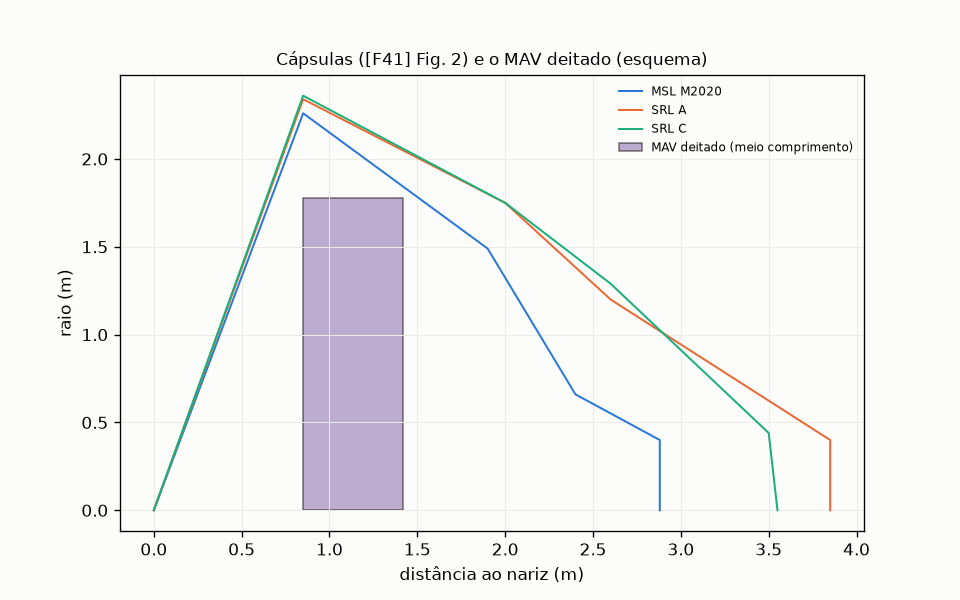
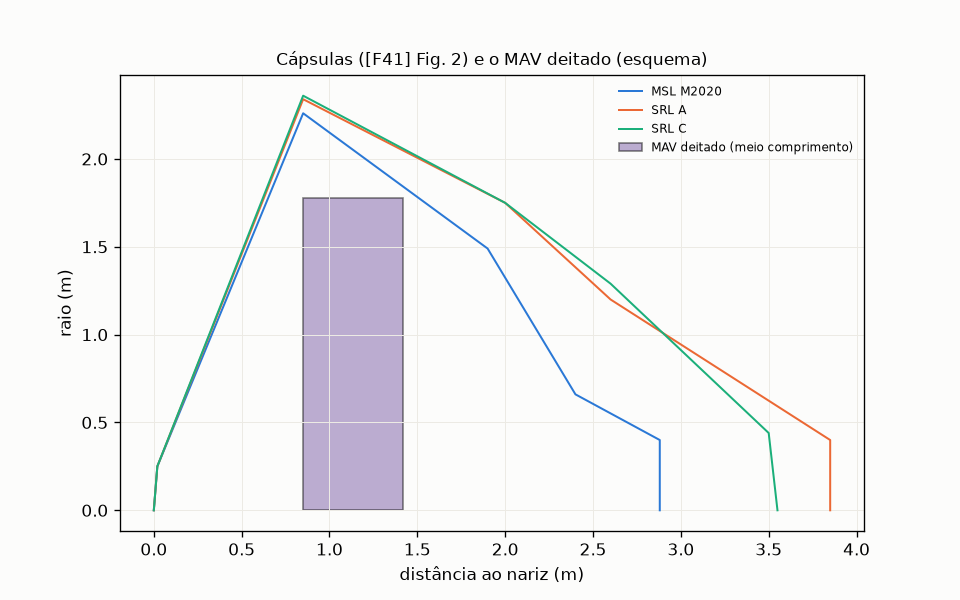
Etapa 7.2: correções da revisão (casca de PICA, sensibilidade do envelope do Vulcan, P-089)
- casca_tronco: limite da bissecção pelo maior raio (a casca de PICA tinha 1/11 do volume); teste novo.
- Vulcan: folga também sem o afunilamento linear entre as cotas (negativa com 4,65 m); a condição do ADR 0022 fica
  dependente da confirmação do envelope pela ULA, com as opções no documento.
- P-089 corrigida (a conferência usa a pior folga, SRL-C); nariz rombudo no perfil; guardas e ponta do EES no config
  (P-093, P-094); rótulo "geometria modelada".
- FeatureScript: sem vírgulas finais, cone interno estendido (sem faces coplanares), subtração sem recuperação
  silenciosa; interferências conhecidas e P-079 (fonte [F224] na justificativa, valor mantido) no documento.

Claude-Session: https://claude.ai/code/session_01JtSYAW4kQdfF2hoWnhjUAJ

Changed region(s): [[0.1562, 0.18, 0.3125, 0.84]]

diff --git a/tools/cad_parametros.py b/tools/cad_parametros.py
@@ -124,7 +124,7 @@ def casca_tronco(x0, r0, x1, r1, t):
     """Raio interno (deslocamento radial) que dá o volume de uma casca de espessura normal t no tronco (x0,r0)–(x1,r1)."""
     h = abs(x1 - x0)
     alvo = math.pi * (r0 + r1) * math.hypot(h, r1 - r0) * t   # área lateral × espessura
-    lo, hi = 0.0, min(r0, r1) if min(r0, r1) > 0 else max(r0, r1)
+    lo, hi = 0.0, max(r0, r1)   # o raio interno já é limitado a ≥ 0 abaixo
     for _ in range(80):   # bissecção no deslocamento radial
         d = (lo + hi) / 2
         vol = vol_tronco(h, r0, r1) - vol_tronco(h, max(r0 - d, 0.0), max(r1 - d, 0.0))
@@ -186,7 +186,7 @@ def main():
     h_ees = r_ees / math.tan(ang_ees)
     z_ees = z_cc + cc[2]
     orb.equivalente("EES com o contêiner de amostras", pega(comp_o, "Carga útil CU-2: EEV")["massa_kg"], "massa do orçamento (P-094)",
-                    tipo="tronco", p0=[0, 0, z_ees], p1=[0, 0, z_ees + h_ees], r0=r_ees, r1=r_ees * 0.01, ri0=0.0, ri1=0.0)
+                    tipo="tronco", p0=[0, 0, z_ees], p1=[0, 0, z_ees + h_ees], r0=r_ees, r1=r_ees * v(eqv["ees_ponta_fracao"]), ri0=0.0, ri1=0.0)
     perf_f = (env["coifas"]["falcon"]["altura_m"], env["coifas"]["falcon"]["raio_m"])
     conj_orb = [("Tanques de inserção", 0.0, eo["tanques"]["insercao_marte"]["diametro_esfera_m"], eo["conjuntos"][0]["raio_m"] + t_tq),
                 ("Tanques de retorno", eo["conjuntos"][1]["h0_m"], topo_ret, eo["conjuntos"][1]["raio_m"] + t_tq),
@@ -214,21 +214,32 @@ def main():
         Lc = perfil[0][-1]
         return min(ea.raio_envelope(perf_v, h_aft + (Lc - x)) - capsula_raio(perfil, x) for x in xs)
     fol_v = {k: {"folga_radial_m": folga_vulcan(p, h_cz), "raio_max_m": max(p[1]), "comprimento_m": p[0][-1]} for k, p in perfis.items()}
+    # sensibilidade: envelope sem o afunilamento linear entre as cotas (o diâmetro menor, da estação de cima, desde o PAF)
+    perf_v_ref = perf_v
+    perf_v = ([perf_v_ref[0][0], perf_v_ref[0][1]] + list(perf_v_ref[0][2:]), [perf_v_ref[1][1], perf_v_ref[1][1]] + list(perf_v_ref[1][2:]))
+    for k, p in perfis.items():
+        fol_v[k]["folga_sem_afunilamento_m"] = folga_vulcan(p, h_cz)
+    perf_v = perf_v_ref
 
     lan = Veiculo("lander")
     t_pica = v(capsulas["espessura_pica_m"])
     t_sla = v(capsulas["espessura_casca_traseira_m"])
+    rmin = v(cons["raio_minimo_m"])
+    i_ombro = int(np.argmax(prr))
     segs = list(zip(px[:-1], prr[:-1], px[1:], prr[1:]))
     for i, (x0, r0, x1, r1) in enumerate(segs):
         if x1 == x0:
             continue
-        frente = x0 == 0.0
+        frente = i < i_ombro
+        if i == 0:   # ponta do nariz rombudo: tronco maciço de PICA
+            lan.add("Nariz do escudo (PICA)", "pica", "geometria: perfil de [F41]", tipo="tronco",
+                    p0=[0, 0, zst(x0)], p1=[0, 0, zst(x1)], r0=max(r0, rmin), r1=r1, ri0=0.0, ri1=0.0)
+            continue
         t = t_pica if frente else t_sla
-        r0e = max(r0, 0.01)   # sem raio zero no nariz
-        d = casca_tronco(x0, r0e, x1, r1, t)
-        lan.add("Escudo térmico (PICA)" if frente else f"Casca traseira {i} (SLA-561V)", "pica" if frente else "sla_561v",
+        d = casca_tronco(x0, r0, x1, r1, t)
+        lan.add("Escudo térmico (PICA)" if frente else f"Casca traseira {i - i_ombro + 1} (SLA-561V)", "pica" if frente else "sla_561v",
                 "geometria: perfil de [F41], espessura de [F215]/[F225]", tipo="tronco_oco",
-                p0=[0, 0, zst(x0)], p1=[0, 0, zst(x1)], r0=r0e, r1=r1, ri0=max(r0e - d, 0.005), ri1=max(r1 - d, 0.005))
+                p0=[0, 0, zst(x0)], p1=[0, 0, zst(x1)], r0=r0, r1=r1, ri0=max(r0 - d, rmin), ri1=max(r1 - d, rmin))
     lan.add("Tampa traseira (SLA-561V)", "sla_561v", "geometria (P-090)", tipo="cilindro", p0=[0, 0, z_aft], p1=[0, 0, z_aft + t_sla], r=prr[-2])
     # estágio de cruzeiro: dois tanques ao lado da casca traseira e o circuito de fluido como disco equivalente
     lc = env["lander"]["cruzeiro"]
@@ -243,7 +254,7 @@ def main():
     de = env["lander"]["descida"]
     d_de = de["diametro_esfera_m"]
     r_de = v(al["raio_tanques_descida_m"])
-    x_ombro = px[1]
+    x_ombro = px[i_ombro]
     x_mav0 = v(cad["mav_no_aeroshell"]["estacao_base_referencia_m"])
     for i, a in enumerate(float(x) for x in al["angulos_tanques_descida_graus"]["valor"]):
         a = math.radians(a)
@@ -302,7 +313,7 @@ def main():
             massa += m
             mom += m * centro(c)
             chave = "densidade equivalente (massa do orçamento)" if c["material"] == "equivalente" else (
-                "propelente" if c["material"] in rho else "geometria e densidade com fonte")
+                "propelente" if c["material"] in rho else "geometria modelada")
             por_origem[chave] = por_origem.get(chave, 0.0) + m
         resumo[k] = {"massa_kg": massa, "cg_m": (mom / massa).tolist(), "por_origem_kg": por_origem, "corpos": len(ve_.corpos)}
     resumo["orcamento"] = {"orbitador_injetado_kg": arq["orbitador"]["injetado_kg"], "lander_injetado_kg": arq["lander"]["injetado_kg"],
@@ -374,6 +385,17 @@ def _vec(p):
     return "[" + ", ".join(_num(x) for x in p) + "]"
 
 
+def extensao_interna(c):
+    """Cone interno de um tronco oco estendido além das duas faces (pela espessura da parede), com os raios na mesma reta:
+    a subtração não tem faces coplanares e o volume removido dentro do tronco externo é o mesmo."""
+    p0, p1 = np.array(c["p0"], float), np.array(c["p1"], float)
+    h = float(np.linalg.norm(p1 - p0))
+    u = (p1 - p0) / h
+    e = max(c["r0"] - c["ri0"], c["r1"] - c["ri1"])
+    k = (c["ri1"] - c["ri0"]) / h
+    return {"pe0": (p0 - u * e).tolist(), "pe1": (p1 + u * e).tolist(), "rie0": max(c["ri0"] - k * e, 0.0), "rie1": c["ri1"] + k * e}
+
+
 def featurescript(nome, corpos, materiais):
     """Modelo cad/featurescript/modelo.fs + bloco de dados deste veículo."""
     chaves = list(materiais) + ["equivalente"]
@@ -381,9 +403,9 @@ def featurescript(nome, corpos, materiais):
     for k in chaves:
         if k == "equivalente":
             continue
-        linhas.append(f'    ["{ascii_(materiais[k]["nome"])}", {_num(materiais[k]["densidade_kg_m3"])}],')
-    linhas.append("];")
-    linhas.append("const CORPOS = [")
+        linhas.append(f'    ["{ascii_(materiais[k]["nome"])}", {_num(materiais[k]["densidade_kg_m3"])}]')
+    linhas = [linhas[0], ",\n".join(linhas[1:]), "];"]
+    corpos_txt = []
     for c in corpos:
         if c["material"] == "equivalente":
             mat = f'"mat" : -1, "densidade" : {_num(c["densidade"])}'
@@ -391,9 +413,11 @@ def featurescript(nome, corpos, materiais):
             mat = f'"mat" : {list(materiais).index(c["material"])}, "densidade" : 0'
         cor = CORES.get(c["material"], CORES["equivalente"])
         g = {k: c[k] for k in ("p0", "p1", "c", "c1", "c2", "r", "t", "r0", "r1", "ri0", "ri1") if k in c}
+        if c["tipo"] == "tronco_oco":
+            g.update(extensao_interna(c))
         campos = ", ".join(f'"{k}" : ' + (_vec(x) if isinstance(x, list) else _num(x)) for k, x in g.items())
-        linhas.append(f'    {{ "tipo" : "{c["tipo"]}", "nome" : "{ascii_(c["nome"])}", {mat}, "cor" : {_vec(cor)}, {campos} }},')
-    linhas.append("];")
+        corpos_txt.append(f'    {{ "tipo" : "{c["tipo"]}", "nome" : "{ascii_(c["nome"])}", {mat}, "cor" : {_vec(cor)}, {campos} }}')
+    linhas += ["const CORPOS = [", ",\n".join(corpos_txt), "];"]
     texto = MODELO.read_text(encoding="utf-8")
     return (texto.replace("__FEATURE__", f"marsMission{nome.capitalize()}")
             .replace("__TITULO__", f"MarsMission {ascii_(nome)}")
@@ -410,9 +434,11 @@ def escreve_md(o):
           "## Lander no Vulcan com o perfil real da cápsula (sem a P-083)", "",
           f"Perfis lidos de [F41] Fig. 2 (P-089); frente para cima e estágio de cruzeiro de {br(cf['lander_vulcan']['altura_estagio_cruzeiro_m'])} m "
           "além da cápsula (P-091).", "",
-          "| Forma | Raio máximo | Comprimento | Menor folga radial ao envelope do Vulcan |", "| :- | -: | -: | -: |"]
+          "| Forma | Raio máximo | Comprimento | Menor folga radial ao envelope do Vulcan | Sem o afunilamento linear entre as cotas |", "| :- | -: | -: | -: | -: |"]
     for k, x in cf["lander_vulcan"]["por_forma"].items():
-        md.append(f"| {nomes.get(k, k)} | {br(x['raio_max_m'])} | {br(x['comprimento_m'])} | {br(x['folga_radial_m'], 3)} |")
+        md.append(f"| {nomes.get(k, k)} | {br(x['raio_max_m'])} | {br(x['comprimento_m'])} | {br(x['folga_radial_m'], 3)} | {br(x['folga_sem_afunilamento_m'], 3)} |")
+    md += ["", "Envelope do Vulcan: [F80] Fig. 4.3.1-1 (\"Simplified\"), cotas de diâmetro nas estações; entre elas o contorno desenhado é reto, "
+           "e a interpolação é linear. A última coluna supõe o diâmetro menor (o da estação de cima) desde o plano do PAF."]
     mv = cf["mav_deitado"]
     md += ["", f"Forma usada no CAD: {nomes.get(cf['lander_vulcan']['forma'])}.", "",
            f"## MAV deitado contra a casca traseira (Ø {br(mv['diametro_m'])} m, {br(mv['comprimento_m'])} m; folga interna de "
@@ -427,14 +453,16 @@ def escreve_md(o):
     for c in cf["orbitador_falcon"]:
         md.append(f"| {c['conjunto']} | {br(c['h0_m'])} | {br(c['h1_m'])} | {br(c['raio_m'])} | {br(c['folga_radial_m'])} |")
     md += ["", "## Massa e CG esperados do CAD (pelos volumes dos primitivos; para conferir o Onshape)", "",
-           "| Veículo | Corpos | Massa do CAD | Com geometria e densidade com fonte | Propelente | Densidade equivalente (orçamento) | CG (x, y, z) |",
+           "| Veículo | Corpos | Massa do CAD | Geometria modelada | Propelente | Densidade equivalente (orçamento) | CG (x, y, z) |",
            "| :- | -: | -: | -: | -: | -: | :- |"]
     for k in ("orbitador", "lander", "mav"):
         r = rs[k]
         po = r["por_origem_kg"]
-        md.append(f"| {k} | {r['corpos']} | {br(r['massa_kg'], 1)} | {br(po.get('geometria e densidade com fonte', 0), 1)} | "
+        md.append(f"| {k} | {r['corpos']} | {br(r['massa_kg'], 1)} | {br(po.get('geometria modelada', 0), 1)} | "
                   f"{br(po.get('propelente', 0), 1)} | {br(po.get('densidade equivalente (massa do orçamento)', 0), 1)} | "
                   + ", ".join(br(x, 3) for x in r["cg_m"]) + " |")
+    md += ["", "Geometria modelada: tanques, cilindro central, escudo térmico (PICA [F223]) e casca traseira (SLA-561V, densidade da P-090), "
+           "com espessuras das fontes [F215, F225] ou da P-093."]
     oc = rs["orcamento"]
     md += ["", f"Orçamento (results/etapa2.5/arquitetura.yaml): orbitador {br(oc['orbitador_injetado_kg'], 0)} kg, lander {br(oc['lander_injetado_kg'], 0)} kg, "
            f"MAV {br(oc['mav_glom_kg'], 1)} kg. A diferença (estrutura, motores e peças sem geometria nesta etapa) é assunto da Etapa 7.3; "

diff --git a/tests/test_cad.py b/tests/test_cad.py
@@ -72,3 +72,13 @@ def test_conferencias():
         comp = [x["comprimento_max_m"] for x in linhas]
         assert all(b <= a for a, b in zip(comp, comp[1:]))   # mais para trás, a casca estreita
     assert set(r["lander_vulcan"]["por_forma"]) == {"msl_m2020", "srl_a", "srl_c"}
+
+
+def test_casca_do_escudo_tem_o_volume_da_espessura():
+    """A casca de PICA tem volume = área lateral × espessura [F215] (o deslocamento não fica limitado pelo nariz)."""
+    r = ler("results/etapa7.2/parametros.yaml")
+    t = ler("config/cad.yaml")["capsulas"]["espessura_pica_m"]["valor"]
+    c = next(x for x in r["veiculos"]["lander"] if x["nome"] == "Escudo térmico (PICA)")
+    h = abs(c["p1"][2] - c["p0"][2])
+    alvo = math.pi * (c["r0"] + c["r1"]) * math.hypot(h, c["r1"] - c["r0"]) * t
+    assert cp.volume(c) == pytest.approx(alvo, rel=1e-3)

diff --git a/docs/etapa7.2_featurescript.md b/docs/etapa7.2_featurescript.md
@@ -47,17 +47,28 @@ por `tools/cad_parametros.py`.
   - A leitura do MSL dá raio máximo de 2,26 m, contra 2,25 m publicados; o erro de leitura é da ordem de 0,01 m.
 - **Montagem:** frente para cima (P-091, lado seguro), com o estágio de cruzeiro 0,12 m além da cápsula.
 
-| Forma | Raio máximo (m) | Comprimento (m) | Menor folga radial no Vulcan (m) |
-| :- | -: | -: | -: |
-| MSL/M2020 (Ø 4,5 m) | 2,26 | 2,88 | 0,143 |
-| SRL-A (forma do CAD) | 2,34 | 3,85 | 0,047 |
-| SRL-C | 2,36 | 3,55 | 0,032 |
+| Forma | Raio máximo (m) | Comprimento (m) | Folga radial no Vulcan (m) | Sem o afunilamento linear (m) |
+| :- | -: | -: | -: | -: |
+| MSL/M2020 (Ø 4,5 m) | 2,26 | 2,88 | 0,143 | 0,065 |
+| SRL-A (forma do CAD) | 2,34 | 3,85 | 0,047 | −0,014 |
+| SRL-C | 2,36 | 3,55 | 0,032 | −0,034 |
 
-- **Resultado:** a folga se confirma positiva com 4,65 m, nas duas formas do SRL. Ela é pequena (3 a 5 cm), mas maior que o
-  erro de leitura.
+- **Envelope do Vulcan** ([F80] Fig. 4.3.1-1, "Simplified Static Payload Envelope"):
+  - entre o plano do PAF (Ø 4.877 mm) e a estação 2856.66 (Ø 4.648 mm), o contorno desenhado é reto, sem degrau (largura
+    medida linha a linha na página);
+  - a figura não está em escala: a razão das larguras em pixels é cerca de 0,974, contra 0,953 pelas cotas (medição feita
+    na página renderizada do guia, fora de `results/`);
+  - a folga da quarta coluna usa a interpolação linear entre as cotas;
+  - a última coluna supõe o diâmetro menor (4.648 mm) desde o plano do PAF.
+- **Resultado:** com 4,65 m, a folga só é positiva na leitura linear do envelope (3 a 5 cm, acima do erro de leitura da
+  cápsula, de cerca de 1 cm). Sem o afunilamento linear, ela fica negativa nas duas formas do SRL. **A condição não fica
+  confirmada sem a confirmação do envelope pela ULA.**
+  - O guia admite análise caso a caso: "Some increases in diameter may also be allowed on a mission unique basis, but must
+    be analyzed" ([F80] p. 4-8).
+  - Com 4,5 m (MSL/M2020), a folga é positiva nas duas leituras.
 - **Dependências:**
   - a orientação na coifa (P-091);
-  - o perfil da SRL-A, que é de 2024 e ainda está mudando [F41].
+  - o perfil do SRL, que é de 2024 e ainda está mudando [F41].
 
 ### 2.2 MAV deitado contra o estreitamento da casca traseira
 - **MAV:** Ø 0,57 m, 3,56 m de comprimento.
@@ -86,11 +97,13 @@ por `tools/cad_parametros.py`.
 Os valores vêm dos volumes dos primitivos. Eles servem para conferir o que o Onshape construir. Não são a comparação com o
 orçamento, que fica para a Etapa 7.3.
 
-| Veículo | Massa do CAD (kg) | Com geometria | Propelente | Densidade equivalente | CG z (m) | Orçamento (kg) |
+| Veículo | Massa do CAD (kg) | Geometria modelada | Propelente | Densidade equivalente | CG z (m) | Orçamento (kg) |
 | :- | -: | -: | -: | -: | -: | -: |
 | Orbitador | 6.506,3 | 263,3 | 4.919,1 | 1.323,9 | 1,393 | 7.796 |
-| Lander (lançamento) | 3.045,1 | 184,8 | 943,5 | 1.916,9 | 2,983 | 4.615 |
+| Lander (lançamento) | 3.190,4 | 330,0 | 943,5 | 1.916,9 | 3,003 | 4.615 |
 | MAV | 348,1 | 25,1 | 285,5 | 37,5 | 1,540 | 386,8 |
+
+A geometria modelada inclui o SLA-561V, cuja densidade é a premissa P-090, e as espessuras da P-093.
 
 A diferença para o orçamento não é ajustada. São as peças que ainda não têm geometria:
 - **Orbitador:** estrutura e motores dos estágios.
@@ -116,7 +129,16 @@ A diferença para o orçamento não é ajustada. São as peças que ainda não t
 exemplo, `ONSHAPE_ACCESS_KEY` e `ONSHAPE_SECRET_KEY` no Replit), nunca no repositório.
 
 ## 5. Para decidir (Fabio)
-1. **Aeroshell de 4,65 m:** a condição se confirmou, com folga positiva no Vulcan (seção 2.1). A proposta é manter.
+1. **Aeroshell de 4,65 m:** a folga no Vulcan só é positiva com a leitura linear do envelope; com o diâmetro menor desde o
+   PAF, é negativa (seção 2.1).
+
+   | Opção | Prós | Contras |
+   | :- | :- | :- |
+   | (a) manter 4,65 m e pedir à ULA a confirmação do envelope (ou a análise caso a caso que o guia admite) | massa por área de 261 kg/m²; o MAV deitado cabe na forma do SRL | folga de 3 a 5 cm, que depende do envelope |
+   | (b) voltar para 4,5 m (critério do ADR 0022) | folga positiva nas duas leituras | massa por área de 279 kg/m² (risco de EDL); o MAV deitado não cabe na forma do MSL (seção 2.2) |
+
+   A proposta do agente é (a), mantendo a (b) como alternativa registrada. A decisão é sua, porque a condição do ADR 0022
+   não ficou confirmada sem ressalva.
 2. **MAV deitado:** cabe só com a base no plano do ombro, com 2 a 3 cm de folga de cada lado (seção 2.2). As opções:
 
    | Opção | Prós | Contras |
@@ -128,9 +150,10 @@ exemplo, `ONSHAPE_ACCESS_KEY` e `ONSHAPE_SECRET_KEY` no Replit), nunca no reposi
 
    A proposta do agente é manter (a) no CAD da 7.3 e registrar o risco. As opções (c) e (d) seriam calculadas se você
    pedir.
-3. **P-079, densidade da hidrazina:** achei fonte, a densidade relativa de 1,01 a 15 °C [F224].
-   - Proposta: mudar o valor-base de 1.004 para cerca de 1.009 kg/m³ (1,01 × a densidade da água a 15 °C, que precisaria
-     de fonte própria). Não mudei: valor-base só com a sua aprovação.
+3. **P-079, densidade da hidrazina:** achei fonte, a densidade relativa de 1,01 a 15 °C [F224], com três algarismos. Ela
+   corresponde a cerca de 1.004 a 1.014 kg/m³, e o valor-base atual (1.004) já está dentro dessa faixa.
+   - Proposta: manter o valor e acrescentar [F224] à justificativa (feito, sem mudar o valor).
+   - A densidade da água, necessária para converter, não tem fonte própria aqui.
 4. **Premissas novas (NÃO VALIDADAS):**
 
    | Premissa | O que define |
@@ -148,6 +171,12 @@ exemplo, `ONSHAPE_ACCESS_KEY` e `ONSHAPE_SECRET_KEY` no Replit), nunca no reposi
 - **Geometria simplificada:** os primitivos não dimensionam estrutura nem pressão, as espessuras são de ordem de grandeza
   (P-093) e o CAD não confere interferência entre peças.
 - **Compilação:** o FeatureScript não foi compilado aqui (não conferido). A biblioteca padrão foi conferida na documentação
-  oficial do FeatureScript: `fCylinder`, `fCone`, `fCuboid`, `opSphere`, `opBoolean` e `setProperty`.
+  oficial do FeatureScript: `fCylinder`, `fCone`, `fCuboid`, `opSphere`, `opBoolean` e `setProperty`. Se uma subtração (corpo
+  oco) falhar, a feature falha com erro, em vez de deixar um corpo maciço com massa errada.
+- **Interferências conhecidas no arranjo do lander** (P-095, sem conferência de interferência):
+  - os tanques de descida, centrados no plano do ombro a 1,4 m do eixo, atravessam a frente do escudo térmico;
+  - o tanque de descida 1 se sobrepõe ao núcleo do lander;
+  - o Onshape vai mostrar essas sobreposições. O arranjo interno fica para revisão na 7.3.
+- **Perfil do nariz:** o nariz rombudo entra como um vértice lido da figura, (0,02 m; 0,25 m).
 - **Configuração:** o lander está em configuração de lançamento. A configuração de entrada (sem o estágio de cruzeiro), que
   dá o deslocamento do CG, fica para a 7.3.

diff --git a/results/etapa7.2/conferencias.md b/results/etapa7.2/conferencias.md
@@ -6,11 +6,13 @@ Escolhas (ADR 0022): aeroshell srl_duplo, MAV restricao_2019, 2 pares de tanques
 
 Perfis lidos de [F41] Fig. 2 (P-089); frente para cima e estágio de cruzeiro de 0,12 m além da cápsula (P-091).
 
-| Forma | Raio máximo | Comprimento | Menor folga radial ao envelope do Vulcan |
-| :- | -: | -: | -: |
-| MSL/M2020 (Ø 4,5 m) | 2,26 | 2,88 | 0,143 |
-| SRL-A | 2,34 | 3,85 | 0,047 |
-| SRL-C | 2,36 | 3,55 | 0,032 |
+| Forma | Raio máximo | Comprimento | Menor folga radial ao envelope do Vulcan | Sem o afunilamento linear entre as cotas |
+| :- | -: | -: | -: | -: |
+| MSL/M2020 (Ø 4,5 m) | 2,26 | 2,88 | 0,143 | 0,065 |
+| SRL-A | 2,34 | 3,85 | 0,047 | −0,014 |
+| SRL-C | 2,36 | 3,55 | 0,032 | −0,034 |
+
+Envelope do Vulcan: [F80] Fig. 4.3.1-1 ("Simplified"), cotas de diâmetro nas estações; entre elas o contorno desenhado é reto, e a interpolação é linear. A última coluna supõe o diâmetro menor (o da estação de cima) desde o plano do PAF.
 
 Forma usada no CAD: SRL-A.
 
@@ -40,11 +42,13 @@ Comprimento máximo do MAV deitado com a base na estação dada (distância ao n
 
 ## Massa e CG esperados do CAD (pelos volumes dos primitivos; para conferir o Onshape)
 
-| Veículo | Corpos | Massa do CAD | Com geometria e densidade com fonte | Propelente | Densidade equivalente (orçamento) | CG (x, y, z) |
+| Veículo | Corpos | Massa do CAD | Geometria modelada | Propelente | Densidade equivalente (orçamento) | CG (x, y, z) |
 | :- | -: | -: | -: | -: | -: | :- |
 | orbitador | 20 | 6 506,3 | 263,3 | 4 919,1 | 1 323,9 | 0,000, 0,000, 1,393 |
-| lander | 32 | 3 045,1 | 184,8 | 943,5 | 1 916,9 | 0,027, −0,028, 2,983 |
+| lander | 33 | 3 190,4 | 330,0 | 943,5 | 1 916,9 | 0,026, −0,026, 3,003 |
 | mav | 12 | 348,1 | 25,1 | 285,5 | 37,5 | 0,000, 0,000, 1,540 |
+
+Geometria modelada: tanques, cilindro central, escudo térmico (PICA [F223]) e casca traseira (SLA-561V, densidade da P-090), com espessuras das fontes [F215, F225] ou da P-093.
 
 Orçamento (results/etapa2.5/arquitetura.yaml): orbitador 7 796 kg, lander 4 615 kg, MAV 386,8 kg. A diferença (estrutura, motores e peças sem geometria nesta etapa) é assunto da Etapa 7.3; nada é ajustado.
 

diff --git a/results/fase1/premissas.md b/results/fase1/premissas.md
@@ -94,8 +94,8 @@
 | P-090 | densidade_do_sla_561v | 256 | kg/m³ | NÃO VALIDADA | config/cad.yaml (massa da proteção térmica da casca traseira, Etapa 7.2) |
 | P-091 | orientacao_do_lander_na_coifa | frente_para_cima: True; estagio_de_cruzeiro: conjunto do MSL menos a cápsula lida da figura | — | NÃO VALIDADA | config/cad.yaml (lançamento do lander, Etapa 7.2) |
 | P-092 | estacao_da_base_do_mav_deitado | 0.85 | m do nariz (plano do ombro) | NÃO VALIDADA | config/cad.yaml (MAV deitado contra a casca traseira, Etapa 7.2) |
-| P-093 | materiais_e_espessuras_das_pecas_modeladas | tanques: Ti-6Al-4V, 1,5 mm; cilindro_central: Al 2219, 3 mm | m | NÃO VALIDADA | config/cad.yaml (construcao, Etapa 7.2) |
-| P-094 | pecas_com_densidade_equivalente | altura_plataforma_orbitador_m: 0.3; altura_deck_lander_m: 0.3; ees_sobre_o_ccrs: True | m | NÃO VALIDADA | config/cad.yaml (construcao.equivalentes, Etapa 7.2) |
+| P-093 | materiais_e_espessuras_das_pecas_modeladas | tanques: Ti-6Al-4V, 1,5 mm; cilindro_central: Al 2219, 3 mm; raio_minimo_m: 0.005 | m | NÃO VALIDADA | config/cad.yaml (construcao, Etapa 7.2) |
+| P-094 | pecas_com_densidade_equivalente | altura_plataforma_orbitador_m: 0.3; altura_deck_lander_m: 0.3; ees_sobre_o_ccrs: True; ees_ponta_fracao: 0.01 | m | NÃO VALIDADA | config/cad.yaml (construcao.equivalentes, Etapa 7.2) |
 | P-095 | arranjo_interno_do_lander | tanques_cruzeiro_raio_m: 1.5; tanques_descida: 3 a 120°, raio 1,4 m; braco_x_m: 0.45; braco_raio_m: 0.05; helicopteros_y_m: 0.75; folga_m: 0.05 | m | NÃO VALIDADA | config/cad.yaml (arranjo_lander, Etapa 7.2) |
 
 Total: 95 premissas, 95 com status NÃO VALIDADA. Justificativas em config/premissas.yaml.
